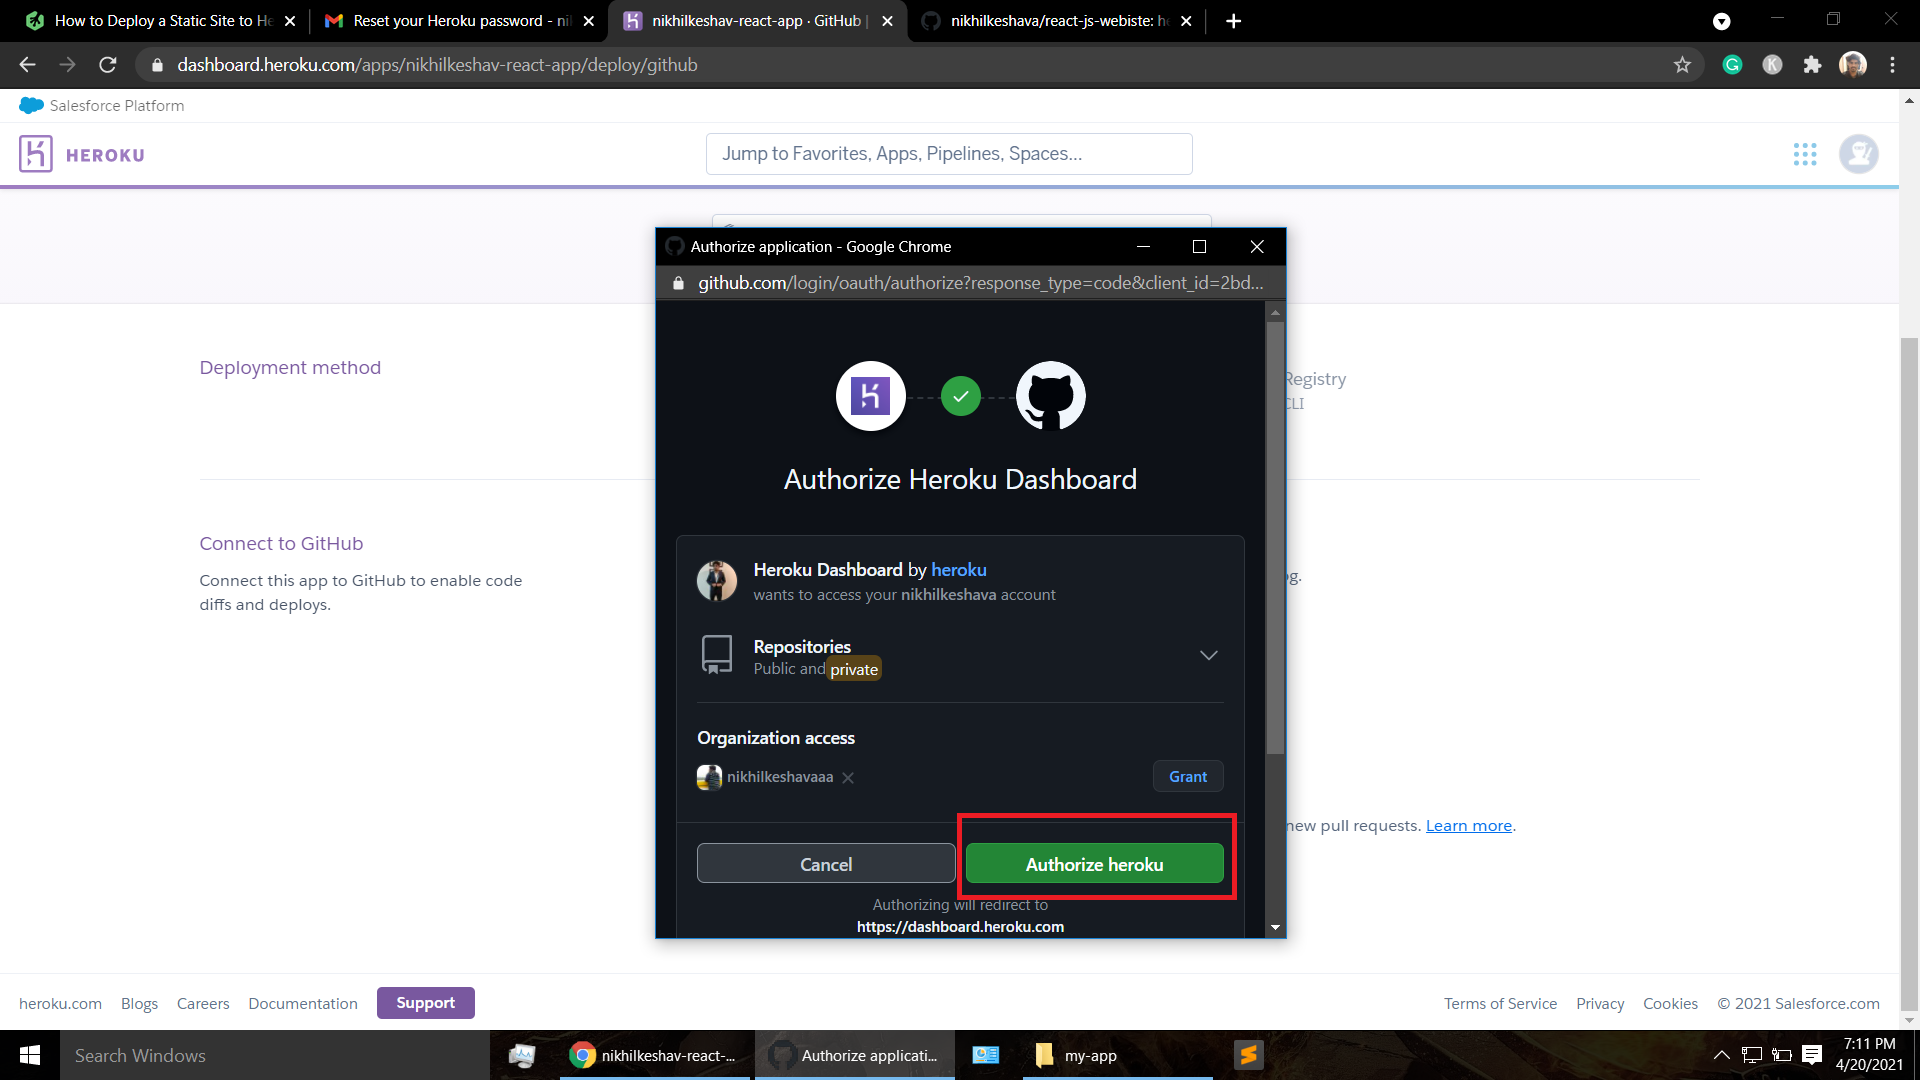
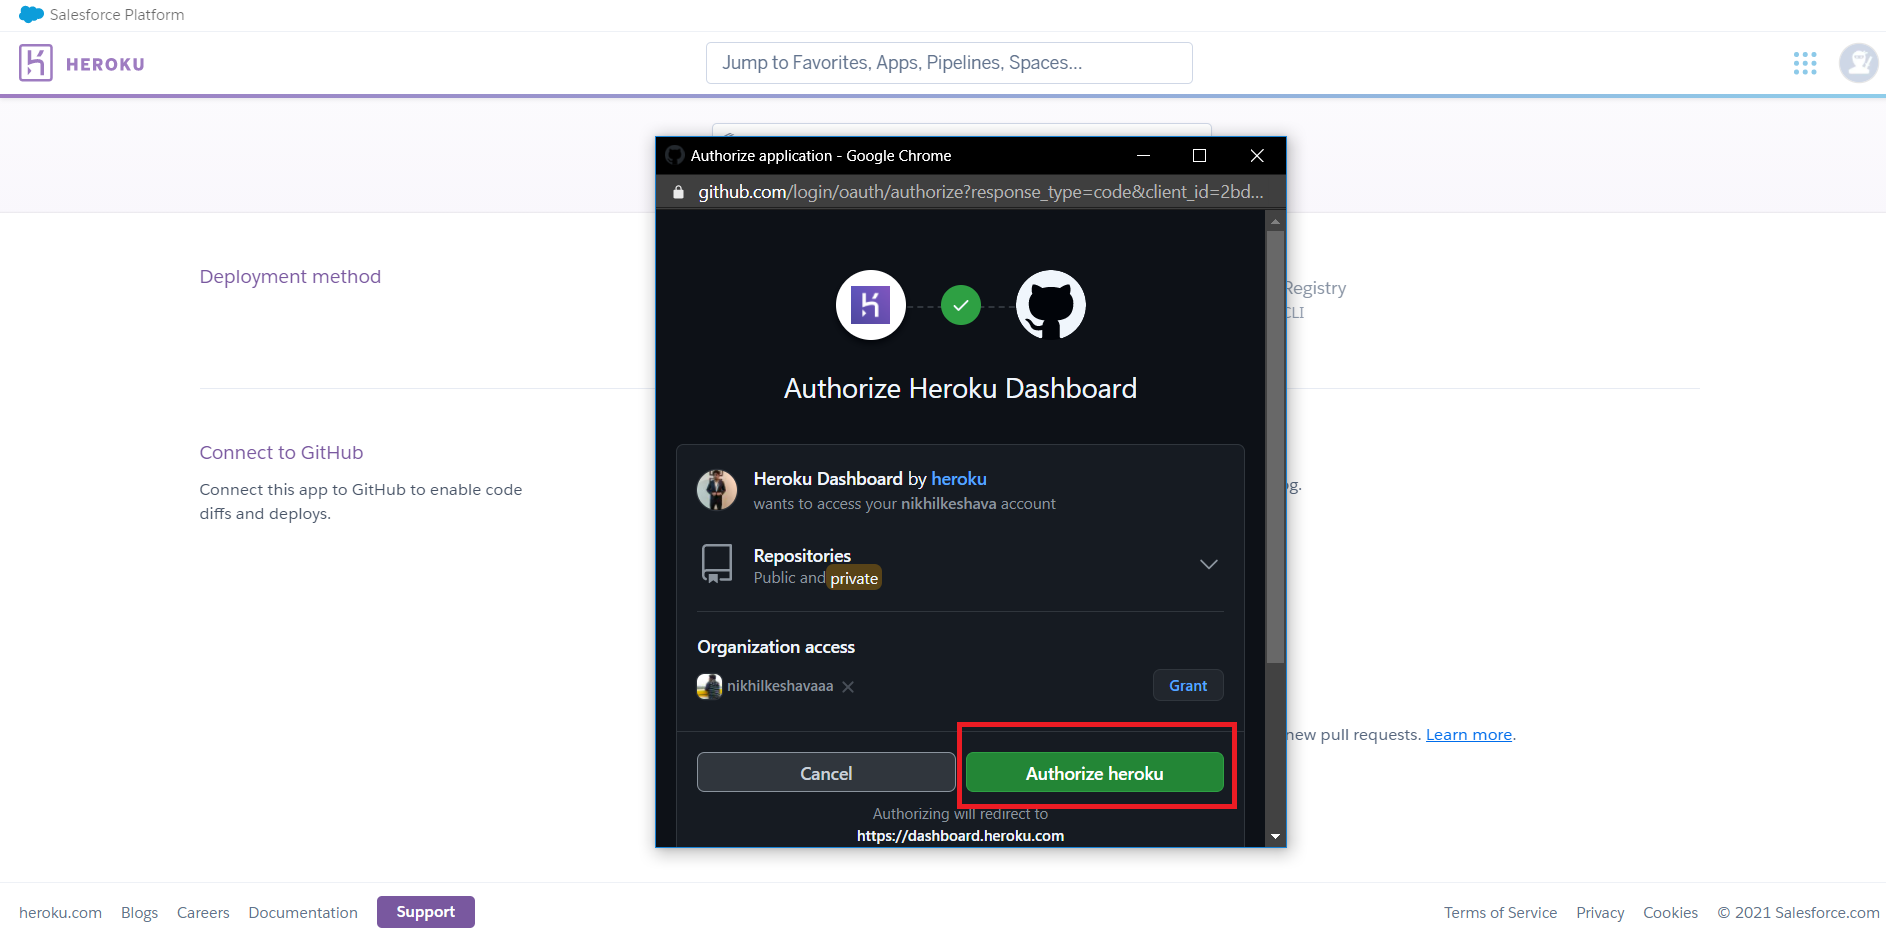
Updated docs images

diff --git a/client/src/views/HostingDocsView.vue b/client/src/views/HostingDocsView.vue
@@ -50,6 +50,9 @@
             <br>
 
             <img src="../assets/gh-host-finished.png" alt="gh-host-finished">
+
+            <br>
+            <br>
         </section>
 
         <section class="mt-20">
@@ -69,7 +72,7 @@
 
             <br>
 
-            <img src="../assets/heroku-dashboard.png" alt="heroku-dashboard">
+            <img class="border-2 border-slate-900" src="../assets/heroku-dashboard.png" alt="heroku-dashboard">
 
             <br>
             <br>
@@ -79,7 +82,7 @@
 
             <br>
 
-            <img src="../assets/create-appname.png" alt="create-appname">
+            <img class="border-2 border-slate-900" src="../assets/create-appname.png" alt="create-appname">
 
             <br>
             <br>
@@ -89,13 +92,13 @@
 
             <br>
 
-            <img src="../assets/heroku-click-deploy.png" alt="heroku-click-deploy">
+            <img class="border-2 border-slate-900" src="../assets/heroku-click-deploy.png" alt="heroku-click-deploy">
 
             <br>
 
             <br>
             
-            <img src="../assets/heroku-connect-github.png" alt="heroku-connect-github">
+            <img class="border-2 border-slate-900" src="../assets/heroku-connect-github.png" alt="heroku-connect-github">
 
             <br>
             <br>
@@ -105,7 +108,7 @@
 
             <br>
 
-            <img src="../assets/heroku-authcate-github.png" alt="heroku-authcate-github">
+            <img class="border-2 border-slate-900" src="../assets/heroku-authcate-github.png" alt="heroku-authcate-github">
 
             <br>
             <br>
@@ -115,13 +118,13 @@
 
             <br>
 
-            <img src="../assets/heroku-search-repostory.png" alt="heroku-search-repostory">
+            <img class="border-2 border-slate-900" src="../assets/heroku-search-repostory.png" alt="heroku-search-repostory">
 
             <br>
             <br>
             <br>
 
-            <img src="../assets/heroku-connect-repository.png" alt="heroku-connect-repository">
+            <img class="border-2 border-slate-900" src="../assets/heroku-connect-repository.png" alt="heroku-connect-repository">
 
             <br>
             <br>
@@ -131,7 +134,7 @@
 
             <br>
 
-            <img src="../assets/heroku-deploy-reposotry.png" alt="heroku-deploy-reposotry">
+            <img class="border-2 border-slate-900" src="../assets/heroku-deploy-reposotry.png" alt="heroku-deploy-reposotry">
 
             <br>
             <br>
@@ -141,7 +144,7 @@
 
             <br>
 
-            <img src="../assets/heroku-successful-deploy.png" alt="heroku-successful-deploy">
+            <img class="border-2 border-slate-900" src="../assets/heroku-successful-deploy.png" alt="heroku-successful-deploy">
         </section>
 
         <section class="mt-20">

diff --git a/client/src/main.ts b/client/src/main.ts
@@ -6,7 +6,7 @@ import router from './router'
 import store from './store'
 
 import './assets/tailwind.css'
-import 'tw-elements';
+import 'tw-elements'
 
 createApp(App)
     .use(store)
